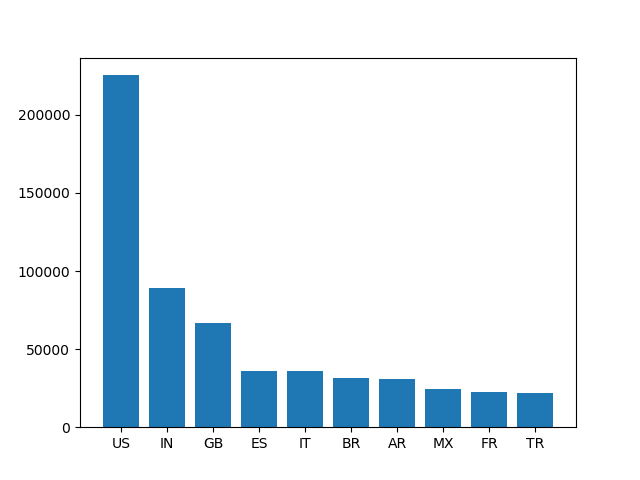
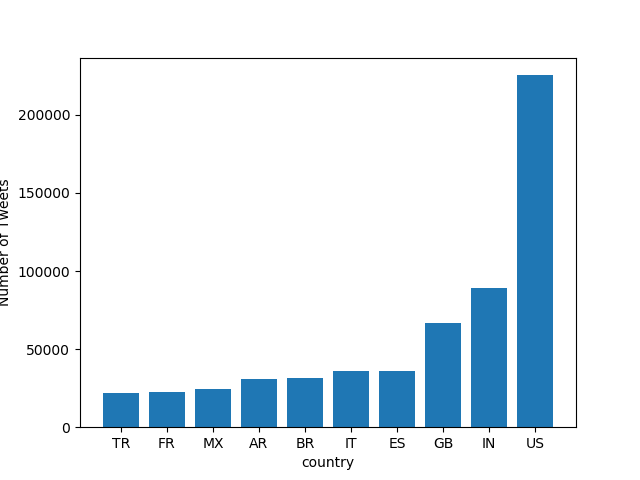
all plots fixed

diff --git a/src/visualize.py b/src/visualize.py
@@ -31,9 +31,9 @@ for k,v in items:
     print(k,':',v)
 
 top_items = items[:10]
-height = [i[1] for i in top_items]
-x = [i[0] for i in top_items]
-#x_sorted = [x for _, x in sorted(zip(height, x), reverse=True)]
-#height_sorted = sorted(height, reverse=True)
+height = [i[1] for i in top_items[::-1]]
+x = [i[0] for i in top_items[::-1]]
 plt.bar(range(len(x)), height, tick_label = x)
+plt.xlabel(f"{args.input_path.split('.')[1]}")
+plt.ylabel('Number of Tweets')
 plt.savefig(f"{args.input_path.split('.')[1]}_{args.key}_plot.png")
